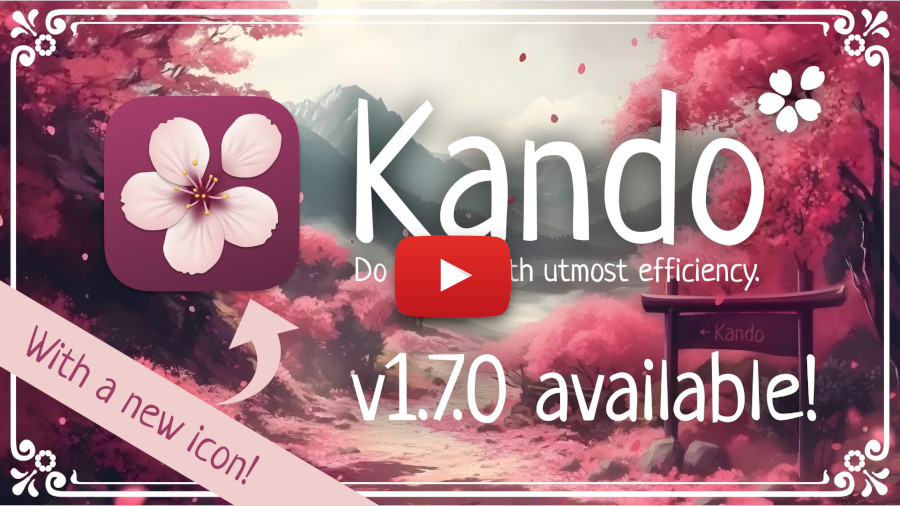
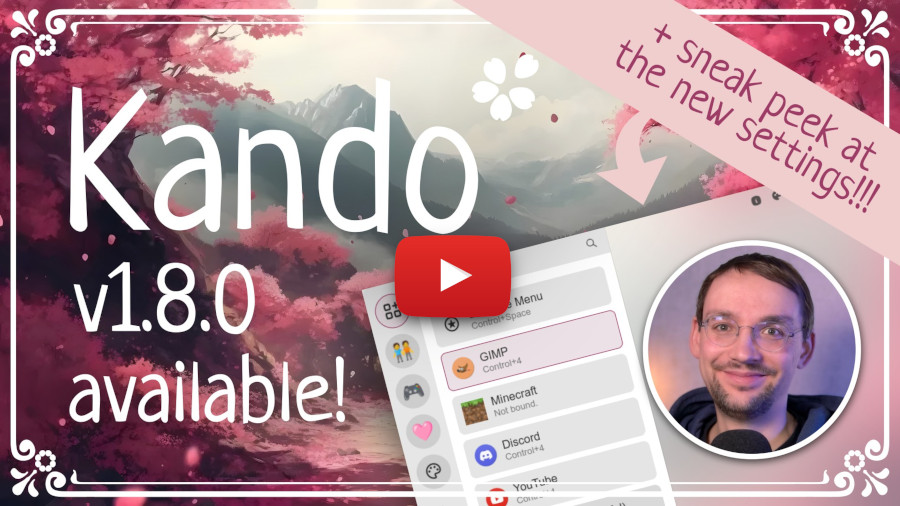
:memo: Add new video links

diff --git a/docs/changelog.md b/docs/changelog.md
@@ -21,6 +21,10 @@ This changelog follows the rules of [Keep a Changelog](http://keepachangelog.com
 
 **Release Date:** 2025-03-27
 
+<a href="https://www.youtube.com/watch?v=cE8FOOfI7II">
+<img align="right" width="400px" src="img/player19.jpg"></img>
+</a>
+
 #### :tada: Added
 
 - **A new way of interaction: Hover Mode!** This is for power users only: It's like turbo mode, but you don't have to press any keys. Just move the mouse to the item you want to select and wait a fraction of a second. This is by far the fastest way to navigate through your menus, but it can also lead to accidental selections as there is no way to visually confirm the selection before it happens. You can enable this in the settings under "Menu Behavior". You can set `"menuOptions": {"hoverModeNeedsConfirmation": true}` in your `config.json` to tweak the hover mode so that it requires a final click to select an item. This is a bit slower, but it can prevent accidental selections.

diff --git a/README.md b/README.md
@@ -4,7 +4,7 @@ SPDX-License-Identifier: CC-BY-4.0
 -->
 
 <p align="center">
-  <a href="https://www.youtube.com/watch?v=t7S6Opf11Vs"><img src="docs/img/video.jpg" /></a>
+  <a href="https://www.youtube.com/watch?v=cE8FOOfI7II"><img src="docs/img/video.jpg" /></a>
 </p>
 
 [![checks](https://github.com/kando-menu/kando/workflows/Checks/badge.svg?branch=main)](https://github.com/kando-menu/kando/actions)
